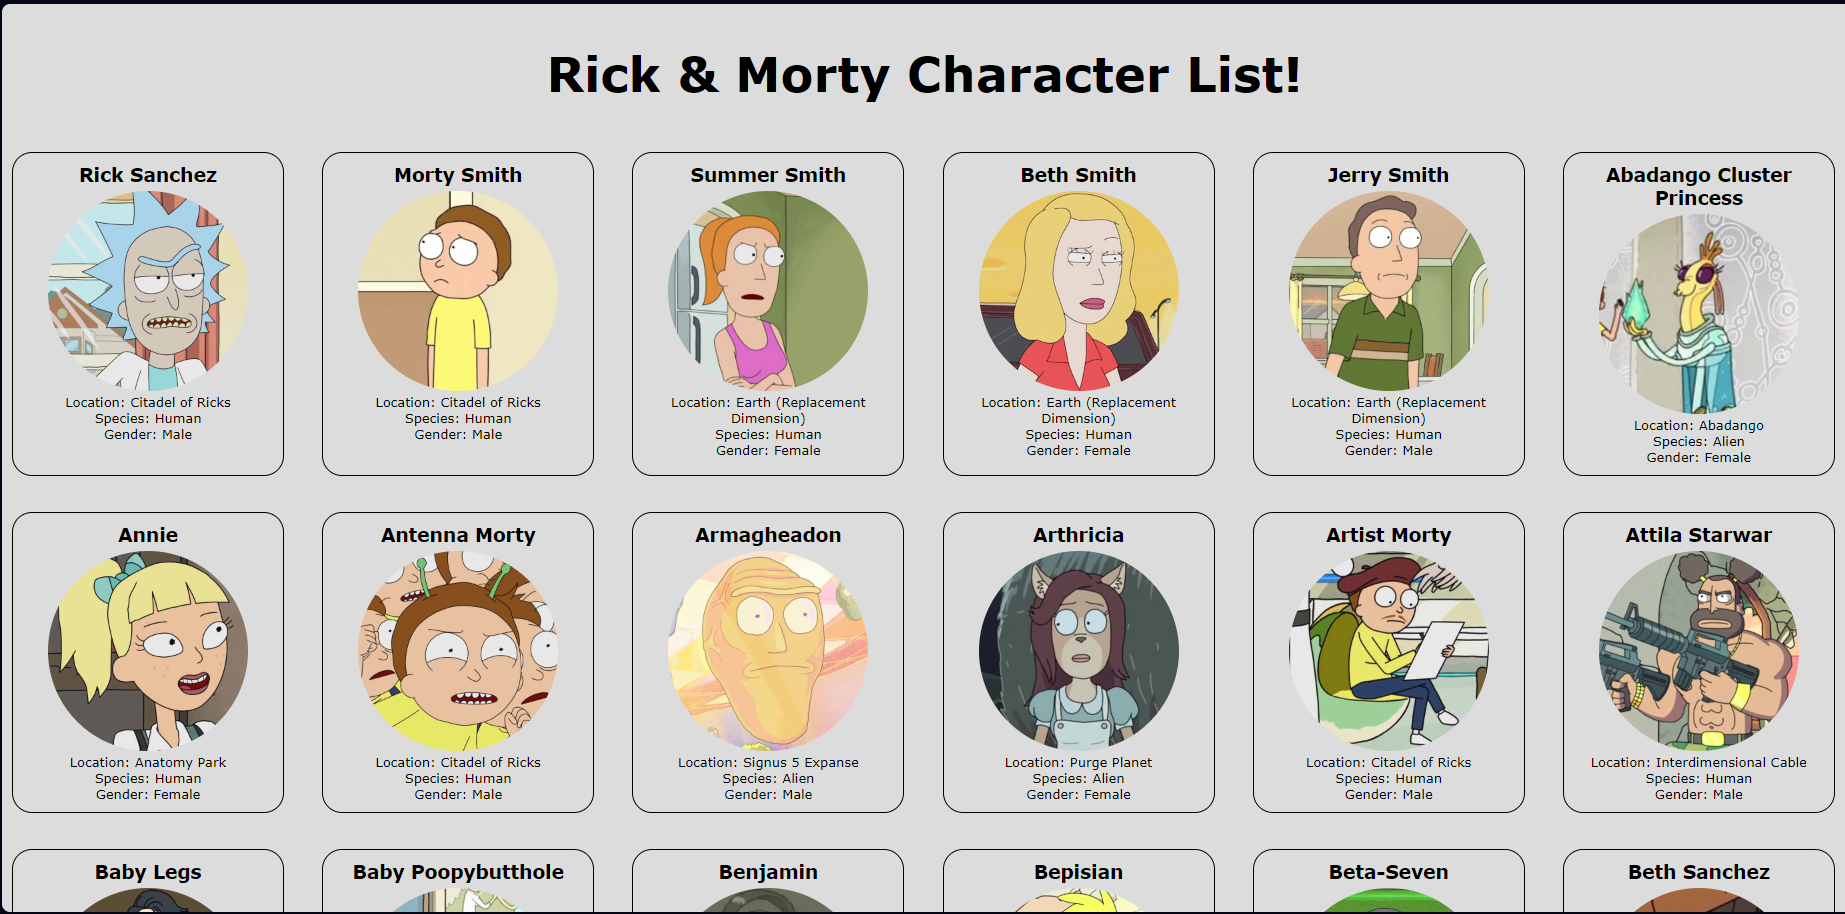
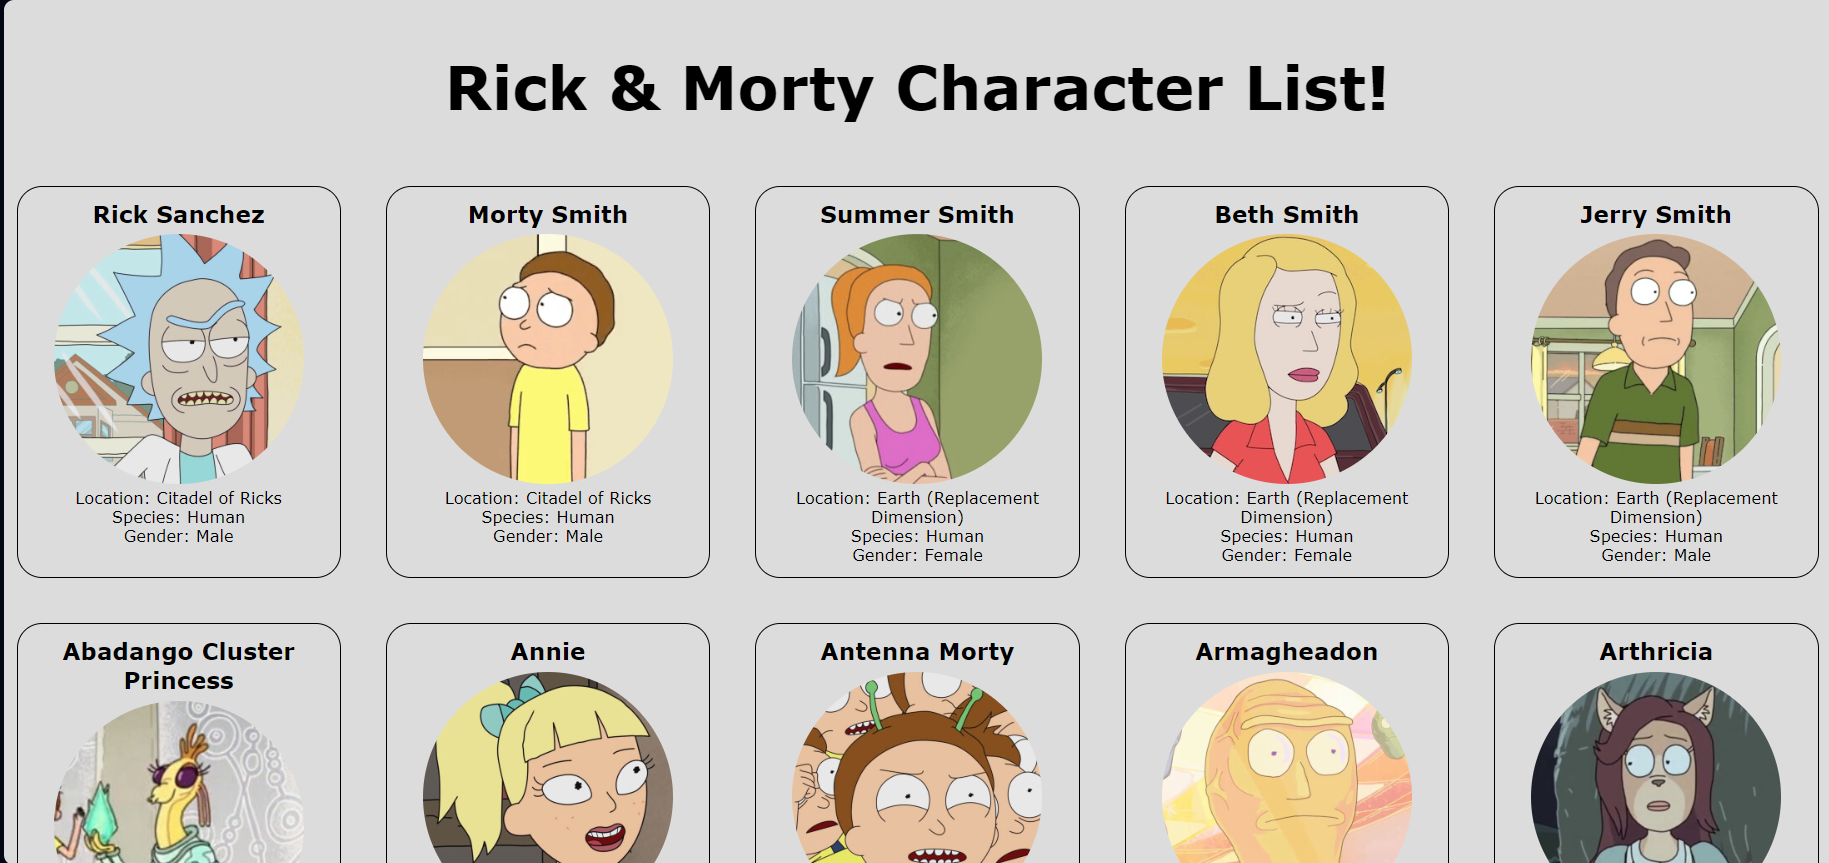
Update

diff --git a/styles.css b/styles.css
@@ -18,7 +18,7 @@ body {
 ul {
   list-style: none;
   display: grid;
-  grid-template-columns: repeat(6, 1fr);
+  grid-template-columns: repeat(5, 1fr);
   grid-auto-rows: auto;
   grid-gap: 1rem;
 }
